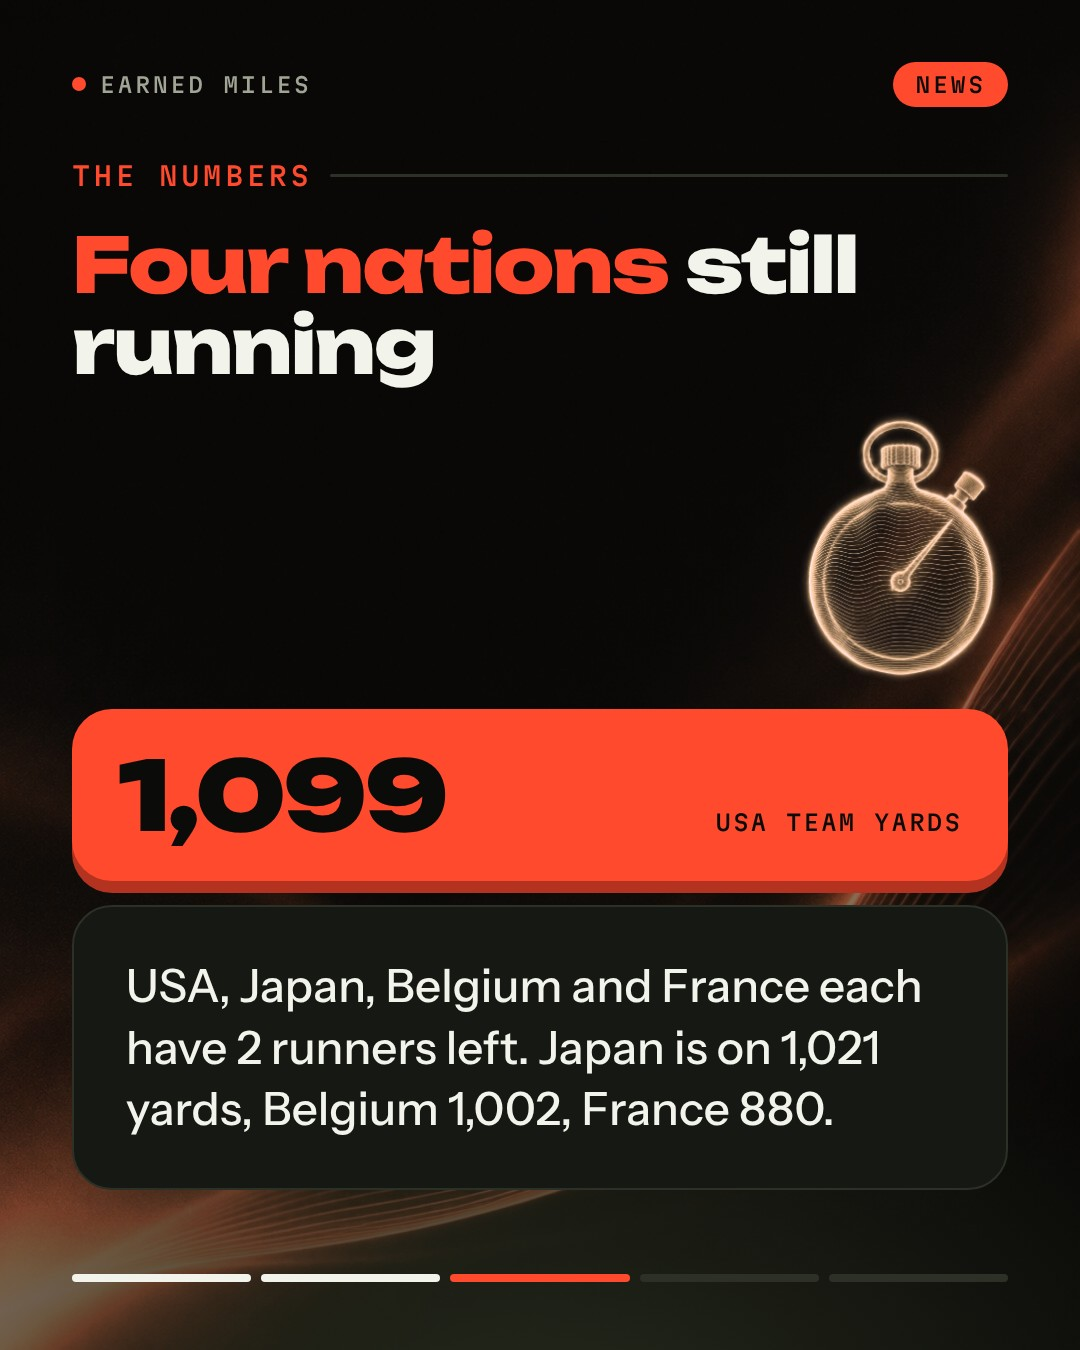
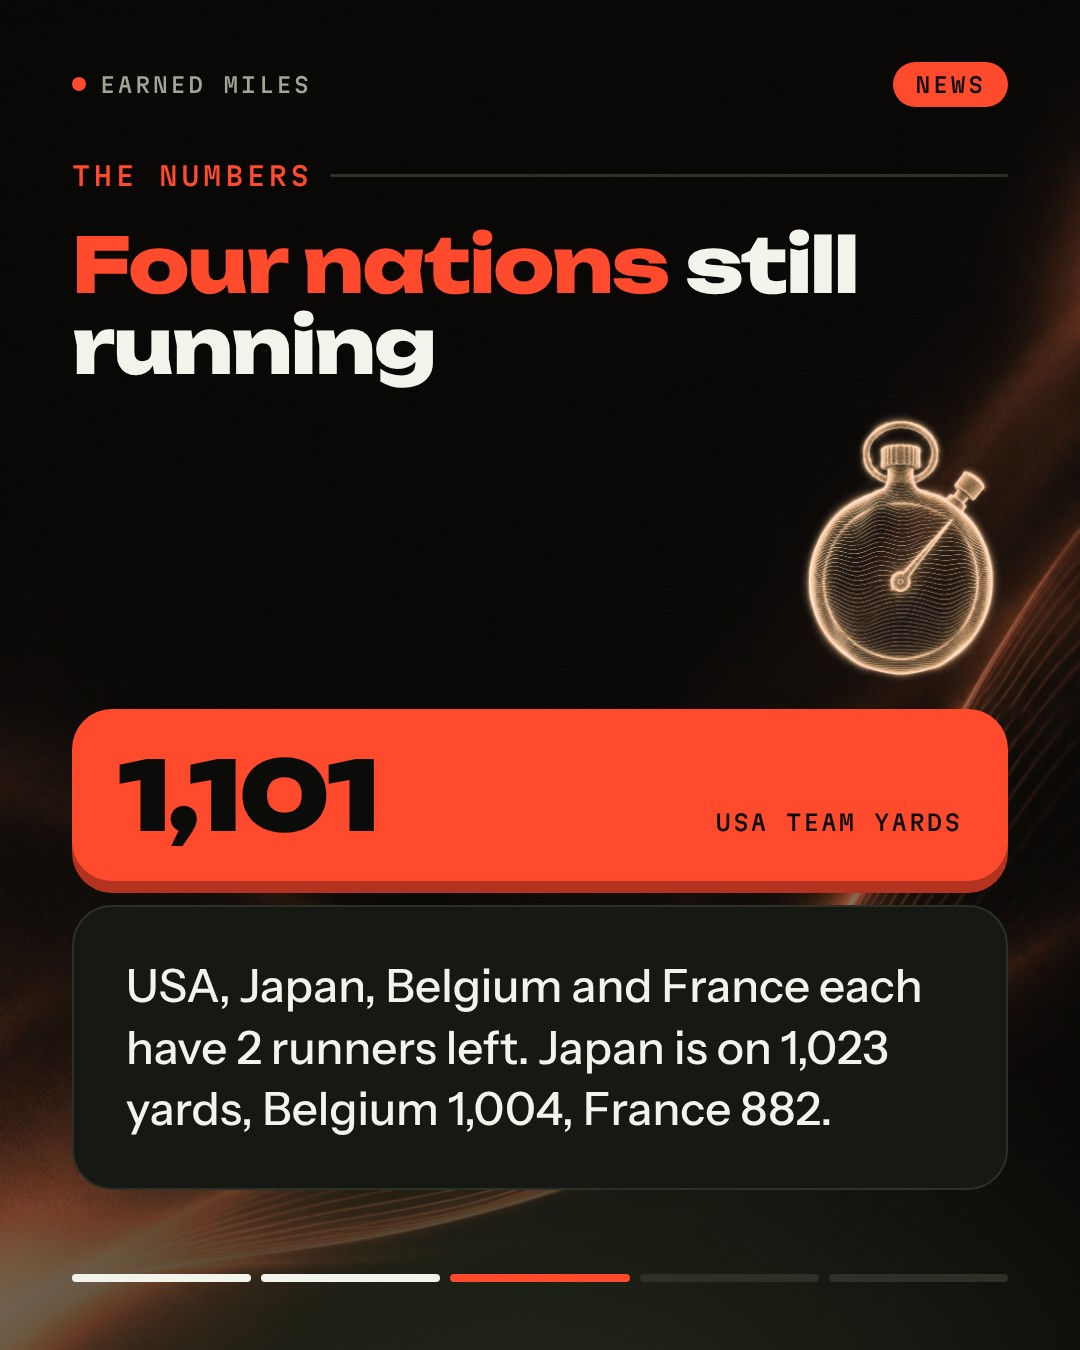
News: refresh WTC post from official sheet; live data sources in TASK
Claude-Session: https://claude.ai/code/session_01FNG9DMETgViBGRKyhnV2w9

Changed region(s): [[0.1528, 0.56, 0.4278, 0.6222], [0.4889, 0.8089, 0.7639, 0.84], [0.7944, 0.7467, 0.825, 0.8089]]

diff --git a/tools/news/TASK.md b/tools/news/TASK.md
@@ -58,3 +58,8 @@ If the story is a new running shoe or a brand drop, send an email with the Gmail
 
 ## 8) FINISH
 Report in 2-3 Czech sentences: what story, when scheduled, which accounts were tagged, the Metricool planner link (and whether the shoe/drop email was sent). If you skipped, say why.
+
+## LIVE DATA SOURCES (use these first, they beat news articles by hours)
+- Backyard Ultra World Team Championship 2026: the official leaderboard is a published Google Sheet linked from https://wtc2026.bigsbackyardultra.com . Fetch CSV: WebFetch https://docs.google.com/spreadsheets/d/e/2PACX-1vR-vmYpj04JD3879yCoJkPoXz8YqjJw9ykVU70nb830fFkmdeEQE75d8fwI5gVbljKe8a0MeK2Grx7L/pub?output=csv (it redirects once to googleusercontent: fetch the redirect URL). Columns: rank, team code, runners left (#), yards, avg lap, runners. Header row shows the current yard. Use "as of <time CEST>" in the post. Official IG: @bigdogbackyardultra (always tag it for Backyard Ultra posts).
+- Before publishing a LIVE post, re-fetch the source right before scheduling and recheck once more at schedule time; if numbers changed, re-render.
+- Never post stale numbers: article sources (Sportzhub, ABC) lag by hours during live events.
